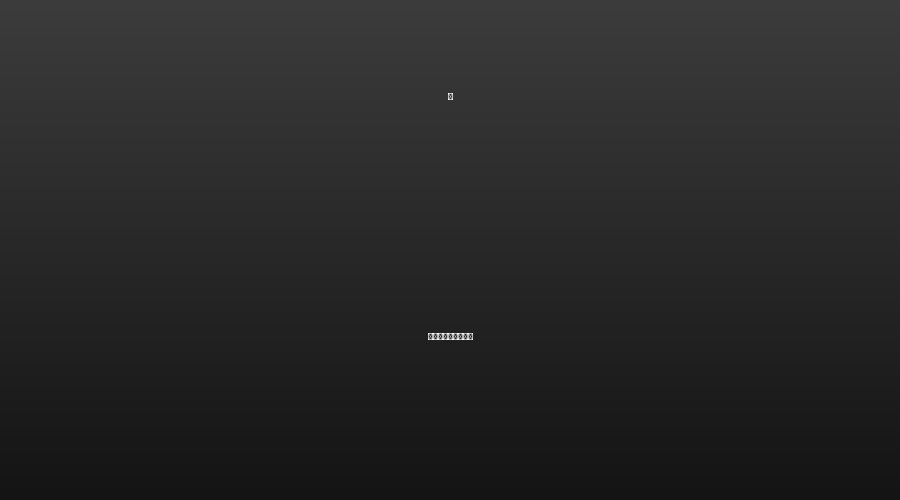
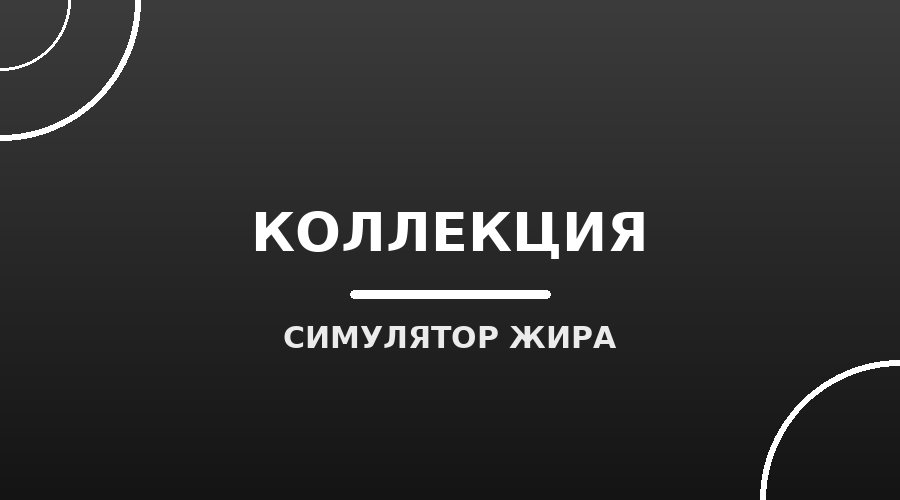
new update

diff --git a/fatbot/utils.py b/fatbot/utils.py
@@ -5,7 +5,14 @@ from datetime import datetime, timedelta, timezone
 from pathlib import Path
 from textwrap import wrap
 
-from aiogram.types import CallbackQuery, InlineKeyboardMarkup, InputFile, FSInputFile, Message
+from aiogram.types import (
+    CallbackQuery,
+    InlineKeyboardMarkup,
+    InputFile,
+    FSInputFile,
+    InputMediaPhoto,
+    Message,
+)
 from PIL import Image, ImageDraw, ImageFont
 
 from .config import ROOT
@@ -51,16 +58,22 @@ def card_image(card) -> FSInputFile:
     price_str = f"{card.base_price:,}"
 
     title_font = _font(52, bold=True)
-    emoji_font = _font(96)
+    # NOTE: DejaVuSans has no color-emoji glyphs, so drawing rarity emoji
+    # (🥴🏠💎👑🔥) with PIL produced tofu squares ("□"). Use DejaVu-safe
+    # stars instead — they render on any platform.
+    stars_font = _font(64, bold=True)
     sub_font = _font(34)
     price_font = _font(30)
+
+    RARITY_STARS = {"common": 1, "rare": 2, "epic": 3, "legendary": 4, "mythic": 5}
+    stars = "★" * RARITY_STARS.get(card.rarity, 1)
 
     def text_w(text, font):
         l, t, r, b = dr.textbbox((0, 0), text, font=font)
         return r - l
 
-    emoji_w = text_w(d["emoji"], emoji_font)
-    dr.text(((w - emoji_w) / 2, 40), d["emoji"], fill=(255, 255, 255), font=emoji_font)
+    stars_w = text_w(stars, stars_font)
+    dr.text(((w - stars_w) / 2, 40), stars, fill=(255, 220, 120), font=stars_font)
 
     title = card.name
     for i, line in enumerate(wrap(title, 18)):
@@ -112,27 +125,41 @@ def photo(key: str) -> InputFile | None:
 
 
 async def answer_media(message: Message, key: str, text: str, kb: InlineKeyboardMarkup | None = None):
-    ph = photo(key) if len(text) <= 1000 else None
+    ph = photo(key) if key and len(text) <= 1024 else None
     if ph:
-        return await message.answer_photo(ph, caption=text, reply_markup=kb)
-    return await message.answer(text, reply_markup=kb)
+        return await message.answer_photo(ph, caption=text, reply_markup=kb, parse_mode="HTML")
+    return await message.answer(text, reply_markup=kb, parse_mode="HTML")
 
 
 async def edit_media(cb: CallbackQuery, key: str, text: str, kb: InlineKeyboardMarkup | None = None):
     if cb.message is None:
         return
-    ph = photo(key) if len(text) <= 1000 else None
+    ph = photo(key) if key and len(text) <= 1024 else None
+    has_photo = bool(getattr(cb.message, "photo", None))
     try:
-        if ph and getattr(cb.message, "photo", None):
-            await cb.message.edit_media(ph, caption=text)
-            if kb:
-                await cb.message.edit_reply_markup(reply_markup=kb)
-        elif hasattr(cb.message, "edit_text"):
-            await cb.message.edit_text(text, reply_markup=kb)
+        if ph and has_photo:
+            await cb.message.edit_media(
+                media=InputMediaPhoto(media=ph, caption=text, parse_mode="HTML"),
+                reply_markup=kb,
+            )
+        elif not ph and not has_photo:
+            await cb.message.edit_text(text, reply_markup=kb, parse_mode="HTML")
         else:
-            await cb.message.answer(text, reply_markup=kb)
+            # Telegram cannot morph a photo message into a text one (or back)
+            # via edit — replace it instead.
+            try:
+                await cb.message.delete()
+            except Exception:
+                pass
+            if ph:
+                await cb.message.answer_photo(ph, caption=text, reply_markup=kb, parse_mode="HTML")
+            else:
+                await cb.message.answer(text, reply_markup=kb, parse_mode="HTML")
     except Exception:
         try:
-            await cb.message.answer(text, reply_markup=kb)
+            if ph:
+                await cb.message.answer_photo(ph, caption=text, reply_markup=kb, parse_mode="HTML")
+            else:
+                await cb.message.answer(text, reply_markup=kb, parse_mode="HTML")
         except Exception:
             pass

diff --git a/scripts/gen_assets.py b/scripts/gen_assets.py
@@ -10,6 +10,14 @@ W, H = 900, 500
 
 
 def font(size=48):
+    # 1. Bundled repo fonts — work on Windows and Linux, include Cyrillic.
+    for p in (OUT / "DejaVuSans-Bold.ttf", OUT / "DejaVuSans.ttf"):
+        if p.exists():
+            try:
+                return ImageFont.truetype(str(p), size)
+            except Exception:
+                pass
+    # 2. System DejaVu (Linux).
     for p in (
         "/usr/share/fonts/truetype/dejavu/DejaVuSans-Bold.ttf",
         "/usr/share/fonts/dejavu/DejaVuSans-Bold.ttf",
@@ -17,10 +25,22 @@ def font(size=48):
     ):
         if os.path.exists(p):
             return ImageFont.truetype(p, size)
+    # 3. Windows Arial (has Cyrillic).
+    for p in (
+        r"C:\Windows\Fonts\arialbd.ttf",
+        r"C:\Windows\Fonts\arial.ttf",
+    ):
+        if os.path.exists(p):
+            try:
+                return ImageFont.truetype(p, size)
+            except Exception:
+                pass
     return ImageFont.load_default()
 
 
 def make(name, c1, c2, emoji_big, title):
+    _ = emoji_big  # intentionally unused: DejaVu has no color-emoji glyphs,
+    # drawing emoji with PIL produced tofu squares ("□") on every banner.
     img = Image.new("RGB", (W, H))
     d = ImageDraw.Draw(img)
     for y in range(H):
@@ -29,14 +49,26 @@ def make(name, c1, c2, emoji_big, title):
         g = int(c1[1] * (1 - t) + c2[1] * t)
         b = int(c1[2] * (1 - t) + c2[2] * t)
         d.line([(0, y), (W, y)], fill=(r, g, b))
-    f_big = font(140)
-    f_title = font(44)
-    bbox = d.textbbox((0, 0), emoji_big, font=f_big)
-    ew = bbox[2] - bbox[0]
-    d.text(((W - ew) / 2, 90), emoji_big, font=f_big, fill=(255, 255, 255))
+    # Decorative outline circles (font-independent, can never become tofu).
+    d.ellipse([-140, -140, 140, 140], outline=(255, 255, 255), width=6)
+    d.ellipse([W - 140, H - 140, W + 140, H + 140], outline=(255, 255, 255), width=6)
+    d.ellipse([-70, -70, 70, 70], outline=(255, 255, 255), width=3)
+    f_title = font(54)
+    f_sub = font(30)
     bbox = d.textbbox((0, 0), title, font=f_title)
     tw = bbox[2] - bbox[0]
-    d.text(((W - tw) / 2, 330), title, font=f_title, fill=(255, 255, 255))
+    d.text(((W - tw) / 2, 200), title, font=f_title, fill=(255, 255, 255))
+    # Thin underline bar under the title.
+    bar_w = min(320, max(120, tw // 2))
+    d.rounded_rectangle(
+        [(W - bar_w) / 2, 290, (W + bar_w) / 2, 298],
+        radius=4,
+        fill=(255, 255, 255),
+    )
+    sub = "СИМУЛЯТОР ЖИРА" if name != "welcome" else "ИГРА ПРО ЖИР • F-COINS • АВИТО"
+    bbox = d.textbbox((0, 0), sub, font=f_sub)
+    sw = bbox[2] - bbox[0]
+    d.text(((W - sw) / 2, 320), sub, font=f_sub, fill=(235, 235, 235))
     img.save(OUT / f"{name}.jpg", quality=85)
 
 

diff --git a/fatbot/handlers/shop.py b/fatbot/handlers/shop.py
@@ -21,14 +21,15 @@ async def cmd_fshop(message: Message, session):
     )
     owned = await services.accessory_keys(session, user.id)
     lines = [
-        "Добро пожаловать в ФШоп! 👜",
+        "<b>Добро пожаловать в ФШоп! 👜</b>",
         "Здесь вы можете приобрести аксессуары за F-Coins.",
         "",
-        f"💠 Ваши F-Coins: {user.fcoins}",
+        f"💠 Ваши F-Coins: <b>{user.fcoins}</b>",
+        "",
     ]
     for a in data.ACCESSORIES:
         mark = " ✅" if a["key"] in owned else ""
-        lines.append(f"{a['emoji']} {a['name']} — {a['price']} FC{mark}\n   <i>{a['desc']}</i>")
+        lines.append(f"{a['emoji']} <b>{a['name']}</b> — {a['price']} FC{mark}\n└ <i>{a['desc']}</i>\n")
     await answer_media(message, "shop", "\n".join(lines), shop_kb(owned))
 
 

diff --git a/fatbot/handlers/card.py b/fatbot/handlers/card.py
@@ -60,7 +60,7 @@ async def open_card(message: Message, session):
         text += "\n\n" + ref_msg
     if achievements:
         text += "\n\n🏆 Новые достижения:\n" + "\n".join(achievements)
-    if len(text) <= 1000:
-        await message.answer_photo(card_image(card), caption=text)
+    if len(text) <= 1024:
+        await message.answer_photo(card_image(card), caption=text, parse_mode="HTML")
     else:
-        await message.answer(text)
+        await message.answer(text, parse_mode="HTML")
